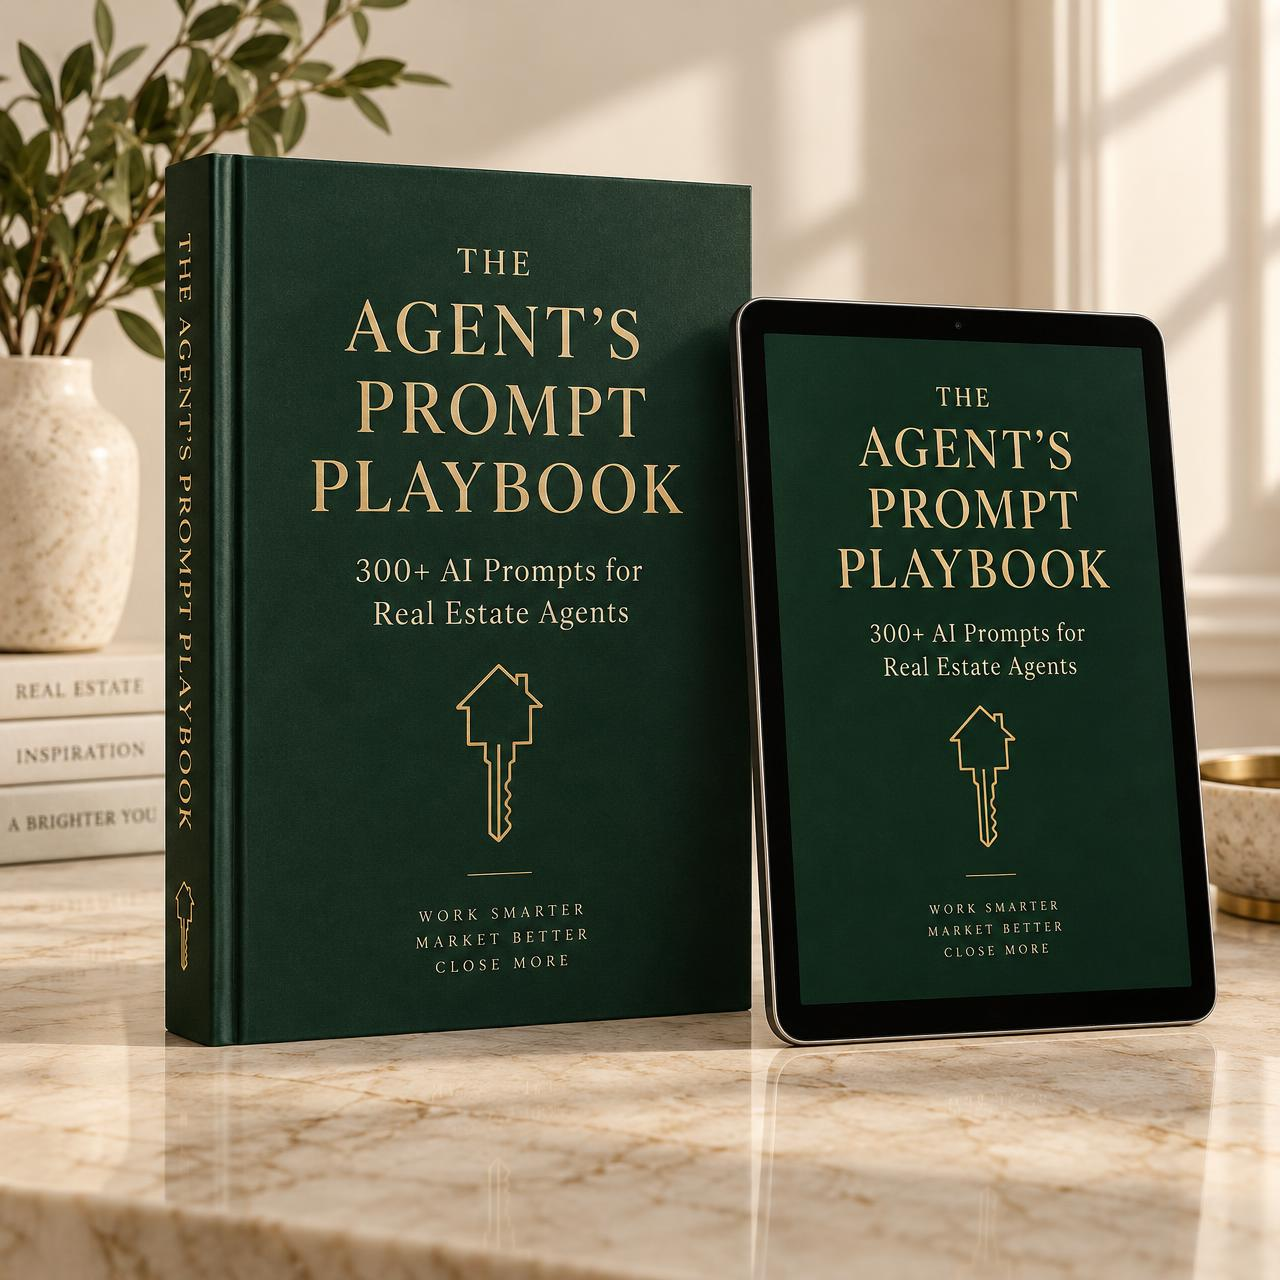
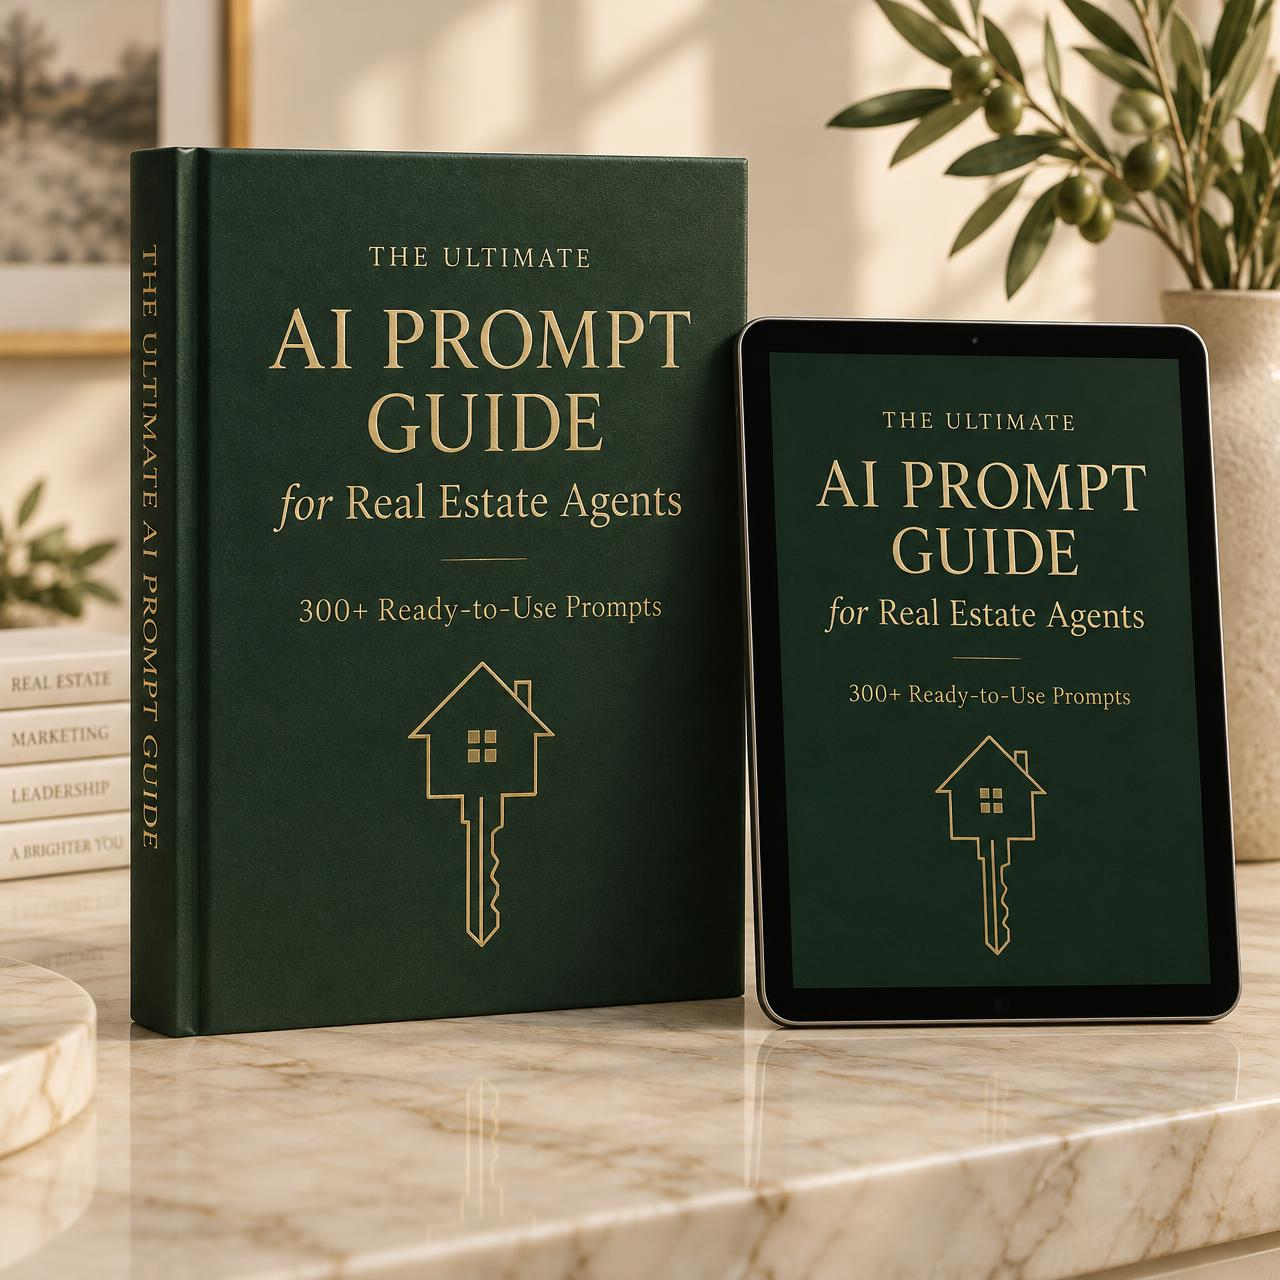
Changes

diff --git a/roadmap.md b/roadmap.md
@@ -1,0 +1,4 @@
+# Roadmap
+
+- [x] Build sales page for the 300+ prompt guide for real estate agents
+- [ ] Rename guide to "The Ultimate AI Prompt Guide for Real Estate Agents" (page text + cover image)
